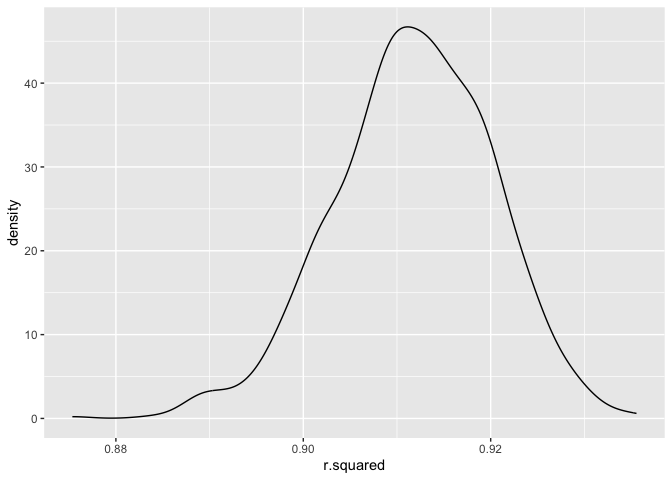
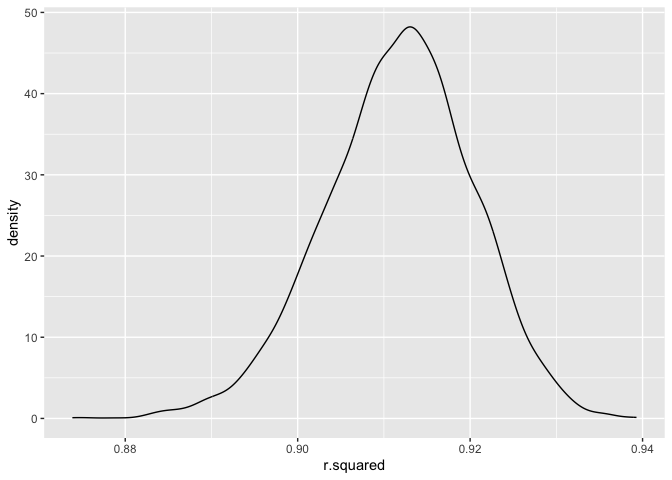
FINAL CHANGES

diff --git a/p8105_hw6_yl4610.md b/p8105_hw6_yl4610.md
@@ -43,7 +43,7 @@ weather_df =
 
 ``` r
 weather_df %>% 
-  modelr::bootstrap(n = 1000) %>% 
+  modelr::bootstrap(n = 5000) %>% 
   mutate(
     models = map(strap, ~lm(tmax ~ tmin, data = .x) ),
     results = map(models, broom::glance)) %>% 
@@ -66,7 +66,7 @@ similar approach, with a bit more wrangling before we make our plot.
 
 ``` r
 weather_df %>% 
-  modelr::bootstrap(n = 1000) %>% 
+  modelr::bootstrap(n = 5000) %>% 
   mutate(
     models = map(strap, ~lm(tmax ~ tmin, data = .x) ),
     results = map(models, broom::tidy)) %>% 
@@ -464,16 +464,16 @@ cv
     ## # A tibble: 100 × 3
     ##    rmse_model1 rmse_model2 rmse_regression_model
     ##          <dbl>       <dbl>                 <dbl>
-    ##  1        317.        285.                  270.
-    ##  2        326.        286.                  269.
-    ##  3        361.        300.                  274.
-    ##  4        324.        287.                  271.
-    ##  5        332.        283.                  265.
-    ##  6        333.        289.                  276.
-    ##  7        340.        290.                  271.
-    ##  8        358.        304.                  283.
-    ##  9        351.        299.                  279.
-    ## 10        342.        298.                  281.
+    ##  1        369.        301.                  283.
+    ##  2        345.        293.                  274.
+    ##  3        313.        278.                  267.
+    ##  4        354.        288.                  276.
+    ##  5        337.        293.                  275.
+    ##  6        332.        284.                  267.
+    ##  7        319.        280.                  264.
+    ##  8        337.        291.                  278.
+    ##  9        323.        284.                  269.
+    ## 10        309.        286.                  268.
     ## # … with 90 more rows
 
 I made the comparison in terms of the cross-validated prediction error,
@@ -496,5 +496,7 @@ comparison_plot =
 comparison_plot
 ```
 
-![](p8105_hw6_yl4610_files/figure-gfm/unnamed-chunk-13-1.png)<!-- --> My
-model has lower average rmse when compared to two other models.
+![](p8105_hw6_yl4610_files/figure-gfm/unnamed-chunk-13-1.png)<!-- -->
+
+My model has lower rmse when compared to two other models. When we have
+lower rmse, it means that we have better fit.
